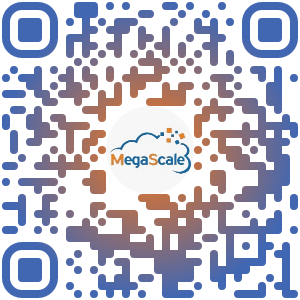
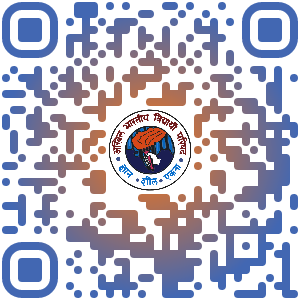
first commit

Changed region(s): [[0.36, 0.36, 0.66, 0.66]]

diff --git a/mail1.js b/mail1.js
@@ -39,7 +39,7 @@ async function generateQRFromExcel(filePath) {
       const qrCodePath = `qrcodes/qr_code_row_${i + 2}.png`; // Path to save QR code image (starting from second row)
       const qrCode = new QRCodeCanvas({
         data: qrData,
-        image: 'logo.png', 
+        image: 'abvp-logo-v1.png', 
         imageOptions: { "hideBackgroundDots": true, "imageSize": 0.4, "margin": 0 },// Replace 'https://example.com/logo.png' with the direct URL to your logo image (PNG or JPG)
         dotsOptions: {
           type : 'rounded',
